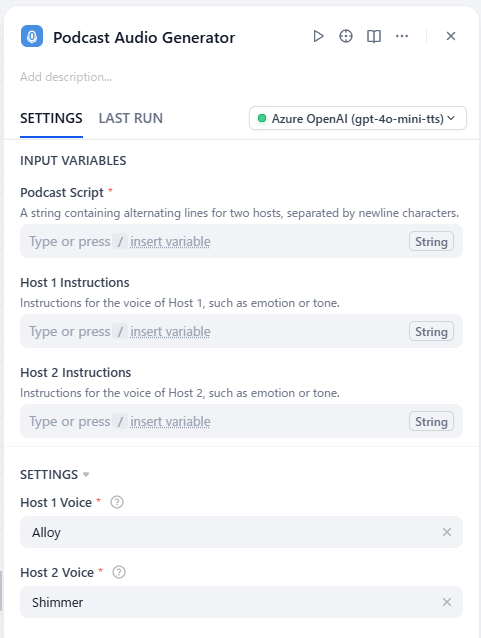
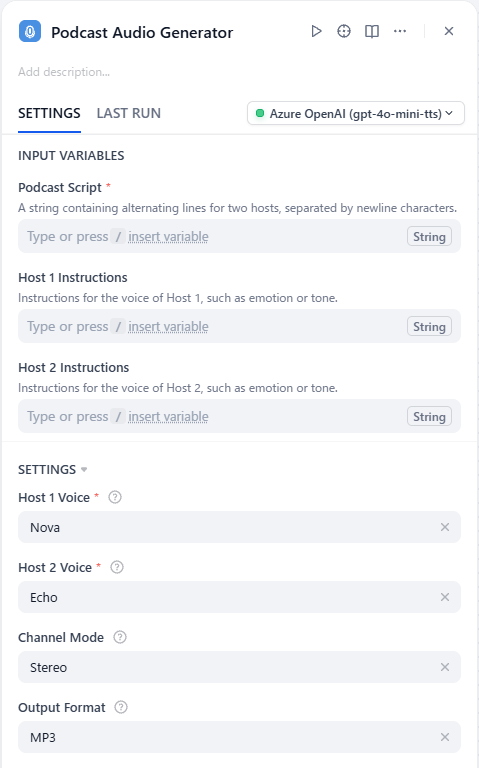
feat(tools/podcast_generator): allow specifying output format and channel mode (#1487)

diff --git a/tools/podcast_generator/tools/podcast_audio_generator.py b/tools/podcast_generator/tools/podcast_audio_generator.py
@@ -20,6 +20,14 @@ class ToolParameterValidationError(Exception):
 
 class PodcastAudioGeneratorTool(Tool):
     @staticmethod
+    def _get_mime_type(output_format: str) -> str:
+        mime_types = {
+            "wav": "audio/wav",
+            "mp3": "audio/mpeg",
+        }
+        return mime_types.get(output_format, "audio/wav")
+
+    @staticmethod
     def _generate_silence(duration: float):
         silence = AudioSegment.silent(duration=int(duration * 1000))
         return silence
@@ -29,7 +37,7 @@ class PodcastAudioGeneratorTool(Tool):
             client: openai.OpenAI,
             model: str,
             line: str,
-            voice: Literal["alloy", "ash", "ballad", "coral", "echo", "fable", "nova", "onyx", "sage", "shimmer"],
+            voice: Literal["alloy", "ash", "ballad", "coral", "echo", "fable", "nova", "onyx", "sage", "shimmer", "verse"],
             instructions: str,
             index: int,
     ) -> tuple[int, Union[AudioSegment, str], Optional[AudioSegment]]:
@@ -56,6 +64,8 @@ class PodcastAudioGeneratorTool(Tool):
         host2_voice = tool_parameters.get("host2_voice")
         host1_instructions = tool_parameters.get("host1_instructions", "")
         host2_instructions = tool_parameters.get("host2_instructions", "")
+        channel_mode = tool_parameters.get("channel_mode", "mono")
+        output_format = tool_parameters.get("output_format", "wav")
         script_lines = [line for line in script.split("\n") if line.strip()]
         if not host1_voice or not host2_voice:
             raise ToolParameterValidationError("Host voices are required")
@@ -100,17 +110,30 @@ class PodcastAudioGeneratorTool(Tool):
                 if isinstance(audio, str):
                     yield self.create_text_message(audio)
                 audio_segments[index] = (audio, silence)
+
+        # combine audio segments into a single audio file
         combined_audio = AudioSegment.empty()
-        for i, (audio, silence) in enumerate(audio_segments):
-            if audio:
-                combined_audio += audio
-                if i < len(audio_segments) - 1 and silence:
-                    combined_audio += silence
+        if channel_mode == "stereo":
+            for i, (audio, silence) in enumerate(audio_segments):
+                if audio:
+                    pan_value = -0.2 if i % 2 == 0 else 0.2
+                    stereo_audio = audio.set_channels(2).pan(pan_value)
+                    combined_audio += stereo_audio
+                    if i < len(audio_segments) - 1 and silence:
+                        combined_audio += silence.set_channels(2)
+        else:
+            for i, (audio, silence) in enumerate(audio_segments):
+                if audio:
+                    combined_audio += audio
+                    if i < len(audio_segments) - 1 and silence:
+                        combined_audio += silence
+
+        # export combined audio to bytes
         buffer = io.BytesIO()
-        combined_audio.export(buffer, format="wav")
-        wav_bytes = buffer.getvalue()
+        combined_audio.export(buffer, format=output_format)
+        blob_bytes = buffer.getvalue()
         for resp in [
             self.create_text_message("Audio generated successfully"),
-            self.create_blob_message(blob=wav_bytes, meta={"mime_type": "audio/x-wav"}),
+            self.create_blob_message(blob=blob_bytes, meta={"mime_type": self._get_mime_type(output_format)}),
         ]:
             yield resp

diff --git a/tools/podcast_generator/README.md b/tools/podcast_generator/README.md
@@ -37,7 +37,10 @@ The **Podcast Audio Generator** action converts your text script into a podcast 
 2. **Select Host Voices**
    Choose a voice for **Host 1** and **Host 2** from the available options. These voices will be used to narrate the respective lines in the script.  
    Optionally, you can also specify the **Instructions** for each host to guide the tone or style of their narration.
-3. **Generate the Podcast Audio**
+3. **Select Output Format**
+   By default, the output format is monaural WAV audio. You can select `mono` or `stereo` in the **Channel Mode** field, and specify `WAV` or `MP3` as the output format in the **Output Format** field.  
+   If you select `stereo` mode, Host 1's voice is positioned slightly to the left, while Host 2's voice is positioned slightly to the right.
+4. **Generate the Podcast Audio**
    Once the script and voices are set, run the action to create your podcast audio file. The result will combine the two voices, alternating as per the script.
 
 ![](./_assets/podcast_generator-02.png)
